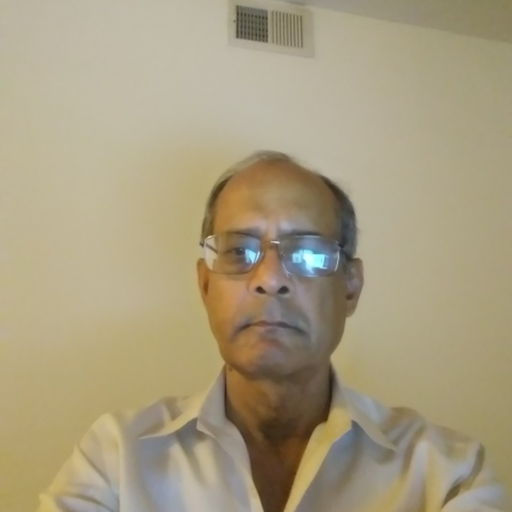
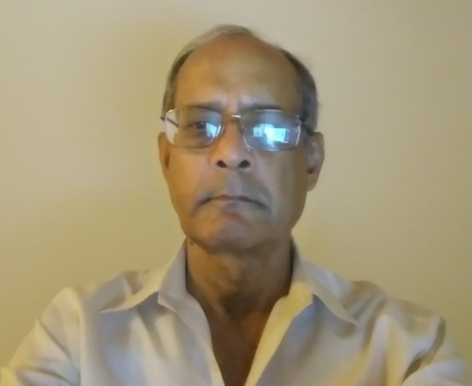
adding vijays photo

diff --git a/collections/_contributors/vijay-cherukuri.md b/collections/_contributors/vijay-cherukuri.md
@@ -2,7 +2,7 @@
 layout: person
 name: Vijay Cherukuri
 position: Contributor
-image_path: /images/photos/vijay-cherukuri.jpg
+image_path: images/photos/Vijay-cherukuri.jpg
 github: vijcheru
 blurb: Mesh Head
 ---
